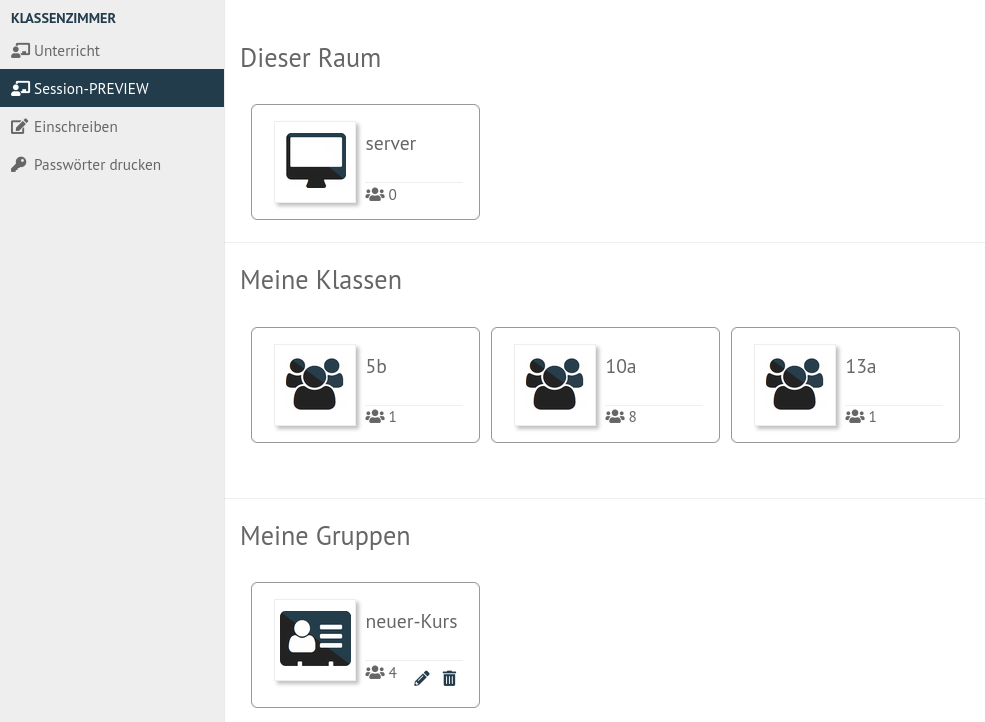
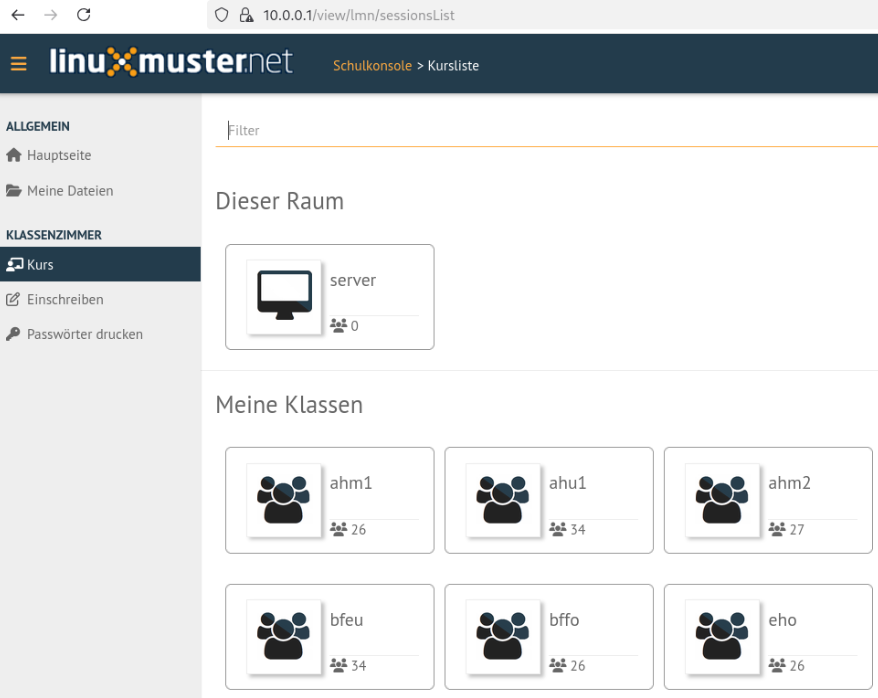
fixed description for setting WLAN access for a class

diff --git a/source/classroom/access-control.rst b/source/classroom/access-control.rst
@@ -7,13 +7,13 @@
 
 In einer Klasse und einem Kurs kann einzelnen Personen oder dem gesamten Kurs / der Klasse die Berechtigung zu Drucken oder der Zugriff auf WLAN und Internet gegeben oder genommen werden. Voraussetzung für diese Funktionen ist die :ref:`Aufnahme des Schülers <session-setup-label>` in einen Kurs.
 
-Öffne in der Schulkonsole unter ``KLASSENZIMMER -> Session-PREVIEW`` wähle die geünschte Klasse oder den gewünschten Kurs.
+Öffne in der Schulkonsole unter ``KLASSENZIMMER -> Kurse`` wähle die geünschte Klasse oder den gewünschten Kurs.
 
 .. figure:: media/webui-teachers-select-session.png
    :align: center
    :alt: WebUI Select Session
    
-   Starte die Session für die Klasse
+   Wähle die Klasse / Gruppe aus
 
 Es wird Liste mit Schülern des Kurses bzw. der Klasse angezeigt. 
 